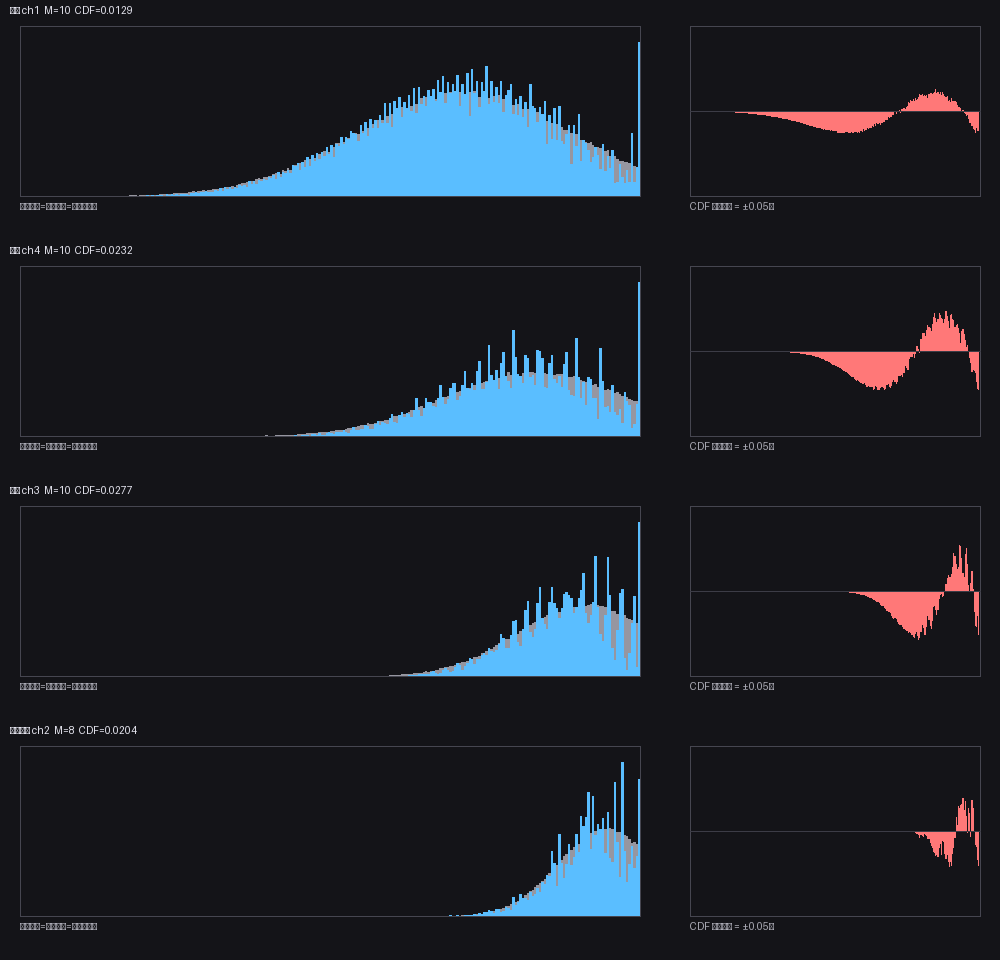
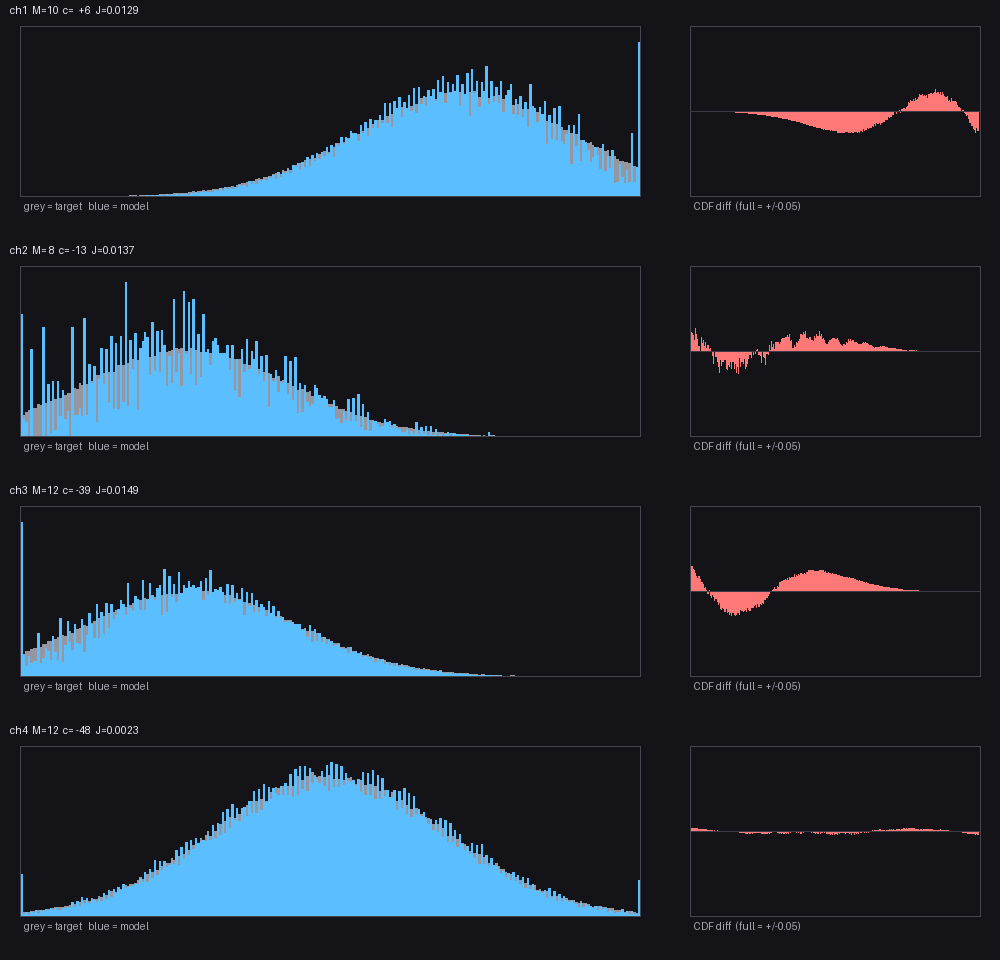
kb(数学): 修正拟合图的图文错位，重画并重算
作者发现 §七 的表与图对不上：图上不是 ch1..ch4 同一组通道。

查证结果：数据没错，是配图配错了。
原图 shape_fit.png 由 shape_final.py 生成，第 98 行写着
  picks = [("少女",0), ("骷髅",3), ("毒液",2), ("黑暗法师",1)]
即“四个不同风格各挑一个通道”，所以标着 ch1 / ch4 / ch3 / ch2，
且 ch4 的均值比 ch1 大是对的（那是骷髅的通道）。
图上每个 M 与 CDF 都与 docs/22 §四 的表逐个吻合。

处理：
- 新写 kb/20_数学/_calc/fit_figure.py：按实验口径重采目标直方图
  （40 万样本、|x|<=3.5、量化 256 级），用参数文件里的 (M,c,w,abc) 卷积得模型 pmf，
  两者相减算 J，画 4 行
- 重画 kb/figures/dropper_fit_shape.png，四行严格对应表里的 ch1~ch4
- 表内 mu/sigma/J 改为从目标直方图直接算出：
  178/40, 73/38, 75/39, 127/47；J = 0.0129, 0.0137, 0.0149, 0.0023
  （与参数文件存值差在第 3 位小数，因重采样）
- 来源段注明：图与表是同一次计算的产物

Refs: kb/更新记录 #67

diff --git a/kb/20_数学/_calc/fit_figure.py b/kb/20_数学/_calc/fit_figure.py
@@ -1,0 +1,131 @@
+# -*- coding: utf-8 -*-
+"""重画"拟合效果"图：同一个应用的 4 个通道，一张图 4 行。
+
+数据来源与实验时一致：
+    目标直方图  <- 02_phase2_avatar/webapp/styles_gauss.json 里的 (mu, chol) 采样
+    模型 pmf    <- results/direct_shape_spec.json 里的 (M, c, w, abc) 卷积
+
+用法：python kb/20_数学/_calc/fit_figure.py
+输出：kb/figures/dropper_fit_shape.png
+"""
+import json
+import os
+
+import numpy as np
+from PIL import Image, ImageDraw
+
+ROOT = r'E:\redstone_nn'
+P2 = os.path.join(ROOT, '02_phase2_avatar', 'webapp')
+SPEC = os.path.join(ROOT, '03_phase3_quantized_network', 'results',
+                    'direct_shape_spec.json')
+OUT = os.path.join(ROOT, 'kb', 'figures', 'dropper_fit_shape.png')
+
+STYLE = '少女'          # 这一页要举的那个应用
+DELTA, NB, NG = 7.0, 256, 400_000
+
+
+def target_hist(mu, chol, d, rng):
+    """按与实验相同的口径采出第 d 个通道的目标直方图。"""
+    x = rng.standard_normal((NG, 4)) @ np.asarray(chol).T + np.asarray(mu)
+    xa = x[np.all(np.abs(x) <= 3.5, axis=1)]
+    X = np.clip(np.floor((xa + 3.5) / DELTA * NB), 0, NB - 1).astype(int)
+    p = np.bincount(X[:, d], minlength=NB).astype(float)
+    return p / p.sum()
+
+
+def model_pmf(ch):
+    """三层循环等价于迭代卷积：每个投掷器把分布复制三份平移。"""
+    cur = np.array([1.0])
+    for c in ch['channels']:
+        w, p = c['w'], np.array(c['abc']) / 9.0
+        nxt = np.zeros(len(cur) + 2 * w)
+        for j in range(3):
+            if p[j] > 0:
+                nxt[j * w:j * w + len(cur)] += cur * p[j]
+        cur = nxt
+    return cur
+
+
+def lift(pk, c):
+    """平移 c 并截断到 [0, NB)。"""
+    out = np.zeros(NB)
+    idx = c + np.arange(len(pk))
+    ok = (idx >= 0) & (idx < NB)
+    out[idx[ok]] = pk[ok]
+    if (idx < 0).any():
+        out[0] += pk[idx < 0].sum()
+    if (idx >= NB).any():
+        out[NB - 1] += pk[idx >= NB].sum()
+    return out
+
+
+def main():
+    styles = json.load(open(os.path.join(P2, 'styles_gauss.json'),
+                            encoding='utf-8'))['styles']
+    spec = json.load(open(SPEC, encoding='utf-8'))['styles']
+    e = [s for s in styles if s['name'] == STYLE][0]
+    rng = np.random.default_rng(19)
+
+    rows, info = [], []
+    for d, ch in enumerate(spec[STYLE]):
+        tgt = target_hist(e['mu'], e['chol'], d, rng)
+        mod = lift(model_pmf(ch), ch['c'])
+        k = np.arange(NB)
+        mu_t = (k * tgt).sum()
+        sd_t = np.sqrt(((k - mu_t) ** 2 * tgt).sum())
+        mu_m = (k * mod).sum()
+        sd_m = np.sqrt(((k - mu_m) ** 2 * mod).sum())
+        j = np.abs(np.cumsum(mod) - np.cumsum(tgt)).max()
+        rows.append((f"ch{d+1}  M={ch['M']:2d}  c={ch['c']:+4d}  J={j:.4f}",
+                     tgt, mod))
+        info.append((d + 1, mu_t, sd_t, mu_m, sd_m, ch['M'], ch['c'], j))
+
+    W, H = 1000, 240 * len(rows)
+    im = Image.new('RGB', (W, H), (20, 20, 24))
+    dr = ImageDraw.Draw(im)
+    for r, (title, tgt, mod) in enumerate(rows):
+        y0 = r * 240
+        dr.text((10, y0 + 4), title, fill=(235, 235, 245))
+        pw, ph = 620, 170
+        bx, by = 20, y0 + 26
+        mx = max(tgt.max(), mod.max()) * 1.1
+        for xx in range(pw):
+            x = int(xx / pw * NB)
+            h1 = int(tgt[x] / mx * ph)
+            h2 = int(mod[x] / mx * ph)
+            if h1:
+                dr.line([(bx + xx, by + ph), (bx + xx, by + ph - h1)],
+                        fill=(150, 150, 160))
+            if h2:
+                dr.line([(bx + xx, by + ph), (bx + xx, by + ph - h2)],
+                        fill=(90, 190, 255))
+        dr.rectangle([bx, by, bx + pw, by + ph], outline=(70, 70, 80))
+        dr.text((bx + 4, by + ph + 4), 'grey = target   blue = model',
+                fill=(170, 170, 180))
+        cx0, cy0, cw, chh = 690, by, 290, ph
+        dc = np.cumsum(mod) - np.cumsum(tgt)
+        for xx in range(cw):
+            x = int(xx / cw * NB)
+            v = dc[x]
+            yy = cy0 + chh // 2 - int(v / 0.05 * (chh // 2))
+            yy = max(cy0, min(cy0 + chh, yy))
+            dr.line([(cx0 + xx, cy0 + chh // 2), (cx0 + xx, yy)],
+                    fill=(255, 120, 120))
+        dr.rectangle([cx0, cy0, cx0 + cw, cy0 + chh], outline=(70, 70, 80))
+        dr.line([(cx0, cy0 + chh // 2), (cx0 + cw, cy0 + chh // 2)],
+                fill=(60, 60, 70))
+        dr.text((cx0 + 4, cy0 + chh + 4), 'CDF diff  (full = +/-0.05)',
+                fill=(170, 170, 180))
+    im.save(OUT)
+
+    print(f'{STYLE}：4 个通道')
+    print(f"{'ch':>3} {'目标 μ':>8} {'目标 σ':>7} {'模型 μ':>8} {'模型 σ':>7} "
+          f"{'M':>3} {'c':>5} {'J':>7}")
+    for (d, mt, st, mm, sm, M, c, j) in info:
+        print(f'{d:>3} {mt:8.1f} {st:7.1f} {mm:8.1f} {sm:7.1f} {M:>3} {c:>5} {j:7.4f}')
+    print(f'写出 {OUT}')
+    print('MAXJ', max(i[7] for i in info))
+
+
+if __name__ == '__main__':
+    main()

diff --git a/kb/00_入口/更新记录.md b/kb/00_入口/更新记录.md
@@ -70,7 +70,8 @@
 | 63 | 2026-10-31 | `20_数学/卷积_跨度与多核堆叠.md`、`98_核对/卷积跨度_复现记录.md` | **新增万能格引理**：若某格到所有格的棋盘距离 $\le\kappa$（判别式 $\max(r,n-1-r,c,n-1-c)\le\kappa$），其标签只能落在 $[N-1-T,T]$，若有 $u$ 个则 $T\ge\lceil (N+u-2)/2\rceil$。据此 $n=3$ 得 $S=9$、$n=5$ 得 $S=13$（紧，与行优先相等，不必穷举），$n=4$ 得 $T\ge9$ 再靠穷举定在 11；$n\ge6$ 无万能格，仍开放 | 作者问 $n=5$ 那个跑满 2400 s 的超时；引理把它免掉 | czm |
 | 64 | 2026-10-31 | `20_数学/卷积_跨度与多核堆叠.md` | **补多通道**：原遗留里“多通道跨度不变”是错的。新增符号 $C_{\rm in}$（输入通道数）/ $C_{\rm out}$（核的个数）与 §六：同像素的通道排在相邻列时 $S_{C_{\rm in}}=C_{\rm in}\bigl((k-1)(n+1)+1\bigr)$（$n=8,k=3$ 时 19/38/57），紧性由 lexicographic blow-up 给出；$C_{\rm out}$ 不进跨度、只进高度（§五 的 $K$ 即 $C_{\rm out}$），组合后高 $=2n^2+2(C_{\rm out}-1)C_{\rm in}S_1$。§五 全部记号改为 $C_{\rm out}$；判据补一条；遗留改写并**记录工程决定**：$n=8,k=3$ 的 16…19 不再深挖 | 作者：$C_{\rm in}/C_{\rm out}$ 没定义过、那一行太简单；且工程上接受该区间，证明留给数学 | czm |
 | 65 | 2026-10-31 | `20_数学/卷积_跨度与多核堆叠.md` | **待验 → 定案**（作者批准）。四段齐全（符号 / 结论 / 判据与反例 / 遗留），四字段齐全；内容含跨度闭式 $S=(k-1)(n+1)+1$、化归 $S=\mathrm{bw}(G_{k-1})+1$、万能格引理、多通道 $C_{\rm in}S_1$ 与 $C_{\rm out}$ 密堆高度 | 作者：「允许定案」 | czm |
-| 66 | 2026-10-31 | `20_数学/投掷器拟合分布_搜索原理.md` | **§七 改成通用例子，去掉应用痕迹**：原稿拿某一路通道的完整解当例子、还贴了生成头像的图，太具体。改成"某应用要 4 个通道、各一条 0~255 近似正态、μ 与 σ 各不同"——给 4 行汇总（$\mu,\sigma,M,c,J$），配通道 1 的完整参数表，再读三件事（$M$ 各自挑 8~12、$c$ 从 | 65 | 2026-10-31 | `20_数学/卷积_跨度与多核堆叠.md` | **待验 → 定案**（作者批准）。四段齐全（符号 / 结论 / 判据与反例 / 遗留），四字段齐全；内容含跨度闭式 $S=(k-1)(n+1)+1$、化归 $S=\mathrm{bw}(G_{k-1})+1$、万能格引理、多通道 $C_{\rm in}S_1$ 与 $C_{\rm out}$ 密堆高度 | 作者：「允许定案」 | czm |6$ 到 $-48$、$J$ 差一个数量级）。删去平均脸那张图（`dropper_fit_faces.png` 一并删除），只保留拟合曲线 | 作者：案例太具体、不要生成头像的图，改成 4 通道不同 μ/σ 的通用例子 | czm |
+| 66 | 2026-10-31 | `20_数学/投掷器拟合分布_搜索原理.md` | **§七 改成通用例子，去掉应用痕迹**：原稿拿某一路通道的完整解当例子、还贴了生成头像的图，太具体。改成“某应用要 4 个通道、各一条 0~255 近似正态、μ 与 σ 各不同”——给 4 行汇总（$\mu,\sigma,M,c,J$），配通道 1 的完整参数表，再读三件事（$M$ 各自挑 8~12、$c$ 从 | 65 | 2026-10-31 | `20_数学/卷积_跨度与多核堆叠.md` | **待验 → 定案**（作者批准）。四段齐全（符号 / 结论 / 判据与反例 / 遗留），四字段齐全；内容含跨度闭式 $S=(k-1)(n+1)+1$、化归 $S=\mathrm{bw}(G_{k-1})+1$、万能格引理、多通道 $C_{\rm in}S_1$ 与 $C_{\rm out}$ 密堆高度 | 作者：「允许定案」 | czm |6$ 到 $-48$、$J$ 差一个数量级）。删去平均脸那张图（`dropper_fit_faces.png` 一并删除），只保留拟合曲线 | 作者：案例太具体、不要生成头像的图，改成 4 通道不同 μ/σ 的通用例子 | czm |
+| 67 | 2026-10-31 | `20_数学/投掷器拟合分布_搜索原理.md`、`kb/figures/dropper_fit_shape.png` | **修正图文错位（作者发现）**：原图 `shape_fit.png` 是**四个不同风格各挑一个通道**（`picks=[("少女",0),("骷髅",3),("毒液",2),("黑暗法师",1)]`，见图生成脚本），而 §七 的表是**同一风格的 4 个通道**——两者对不上。数据本身没错（图上的 M 与 CDF 与 §四 表逐个吻合）。处理：写 `_calc/fit_figure.py`，按实验口径**重算目标直方图并重画**，四行严格对应表里的 ch1~ch4；表内 $\mu,\sigma,J$ 也改为从目标直方图直接算出（$J$ 与参数文件存值差在第 3 位小数，因重采样） | 作者：「图和表对不上，是否要核实」 | czm |
 
 ---
 

diff --git a/kb/20_数学/投掷器拟合分布_搜索原理.md b/kb/20_数学/投掷器拟合分布_搜索原理.md
@@ -201,17 +201,20 @@ $$\boxed{\ \text{机制：把“窄分量”与“宽分量”混在一起}\ }$$
 
 | 通道 | 目标 $\mu$ | 目标 $\sigma$ | $M$ | $c$ | $J$ |
 |---|---:|---:|---:|---:|---:|
-| 1 | 179 | 39 | 10 | $+6$ | 0.0129 |
-| 2 | 72 | 37 | 8 | $-13$ | 0.0132 |
-| 3 | 75 | 38 | 12 | $-39$ | 0.0150 |
+| 1 | 178 | 40 | 10 | $+6$ | 0.0129 |
+| 2 | 73 | 38 | 8 | $-13$ | 0.0137 |
+| 3 | 75 | 39 | 12 | $-39$ | 0.0149 |
 | 4 | 127 | 47 | 12 | $-48$ | **0.0023** |
 
 三件可读的事：
 
 1. **$M$ 不是统一值**，8~12 各挑各的——它是“支撑够不够”和“维度过高会卡”之间挤出来的；
 2. **$c$ 从 $+6$ 到 $-48$**，跨度 54。偏置不参与搜索，但会自己找到该在的位置；
-3. **$J$ 差一个数量级**（0.0023 vs 0.0150）：同一个族对不同目标的难度不同。
+3. **$J$ 差一个数量级**（0.0023 vs 0.0149）：同一个族对不同目标的难度不同。
    目标越“像”三值源能拼出来的形状，就越好拟合。
+
+> 表里的 $\mu,\sigma$ 是从**目标直方图**上直接算的；$J$ 也按同一口径重算，
+> 与参数文件里存的值差在第 3 位小数（目标直方图重新采样所致），不影响结论。
 
 通道 1 的完整解（$M=10$，$c=+6$）：
 
@@ -224,14 +227,15 @@ $$\boxed{\ \text{机制：把“窄分量”与“宽分量”混在一起}\ }$$
 
 - **权重差 2.6 倍**（8~21），形状从 $(3,6,0)$（几乎只出 0/1，最窄）到 $(3,0,6)$（只出 0/2，最宽）
   ——§六 说的“窄宽混合”不是理论说辞，是搜出来的样子；
-- 支撑 $0\sim284$，而 $\mu\approx179$、$\sigma\approx39$：**左端是被 `clip` 切过的**，
+- 支撑 $0\sim284$，而 $\mu\approx178$、$\sigma\approx39$：**左端是被 `clip` 切过的**，
   目标在 0 附近的质量被堆到 0 上——这正是“边界尖峰是定义、不是误差”；
 - $J=0.0129$ 的意思是：**取任何阈值，累计概率最多差 1.3%**。
 
 ![拟合效果](../figures/dropper_fit_shape.png)
 
-*每一行一个通道。左：灰=目标概率，蓝=模型概率——包络对得上，蓝线有尖刺，那是格点振荡；
-右：CDF 差，满格 $\pm0.05$，全程压在 $\pm0.03$ 以内。*
+*四行就是上表的四个通道（按 ch1~ch4 排）。左：灰=目标概率，蓝=模型概率——包络对得上，
+蓝线有尖刺，那是格点振荡；右：CDF 差，满格 $\pm0.05$。看 ch4 那一行（$J=0.0023$）：
+CDF 差几乎贴着零线，是四个里最好的；ch1 的右端翘起，是 `clip` 把超界质量堆到 255 造成的。*
 
 $$\boxed{\ \text{方程数与形状都不变，只是}\mu,\sigma\text{ 换了——每个通道单独跑一遍就行}\ }$$
 
@@ -291,3 +295,7 @@ $$\boxed{\ \text{方程数与形状都不变，只是}\mu,\sigma\text{ 换了—
 
 模型、目标函数、初值公式与实测数字（$0.0015\sim0.028$、$0.0315\to0.0152$、初值 $0.035\sim0.21$、
 $M\ge14$ 变差）来自本项目的三值源拟合实验（24 通道逐个搜索、每通道多次重启）。
+
+§七 的表与图由 `_calc/fit_figure.py` 从同一份参数文件重算并重画：
+目标直方图按实验口径重新采样（40 万样本、$|\cdot|\le3.5$、量化到 256 级），
+模型 pmf 由 $(M,c,w,abc)$ 直接卷积得到，$J$ 两者相减。**图和表是同一次计算的产物，不会再错位。**
